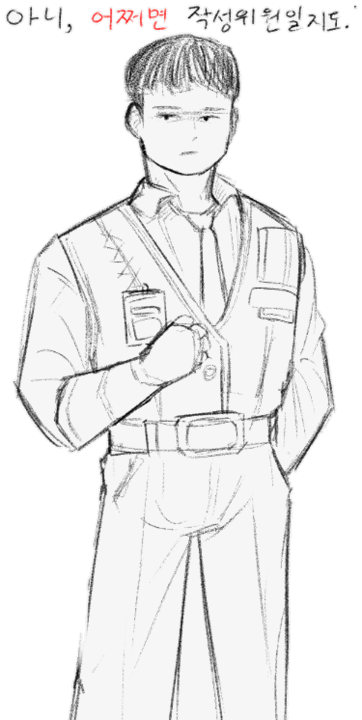
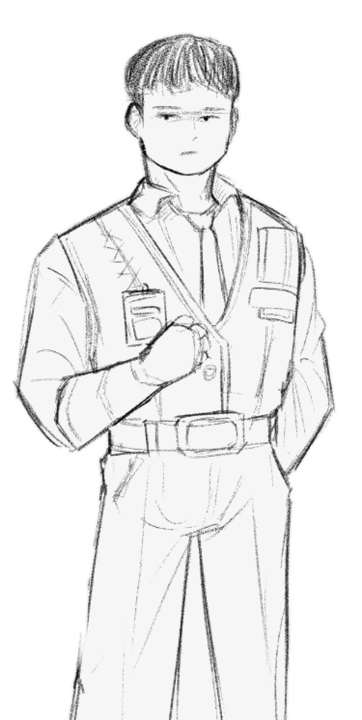
v2.2.2 — 스케치 초상 셋 속채움 · 그림 위 손글씨 지움

diff --git a/index.html b/index.html
@@ -1021,23 +1021,23 @@
 
 <div id="modal"><div class="sheet" id="sheet"></div></div>
 
-<script src="data/access.js?v=2.2.1"></script>
-<script src="data/vault.js?v=2.2.1"></script>
-<script src="data/characters.js?v=2.2.1"></script>
-<script src="data/skills.js?v=2.2.1"></script>
-<script src="data/allies.js?v=2.2.1"></script>
-<script src="data/gifts.js?v=2.2.1"></script>
-<script src="data/pickup.js?v=2.2.1"></script>
-<script src="data/achievements.js?v=2.2.1"></script>
-<script src="data/mail.js?v=2.2.1"></script>
-<script src="data/notice.js?v=2.2.1"></script>
-<script src="data/patch.js?v=2.2.1"></script>
-<script src="data/event.js?v=2.2.1"></script>
-<script src="data/tutorial.js?v=2.2.1"></script>
-<script src="data/foes.js?v=2.2.1"></script>
-<script src="data/story.js?v=2.2.1"></script>
-<script src="data/mirrorpacks.js?v=2.2.1"></script>
-<script src="engine.js?v=2.2.1"></script>
+<script src="data/access.js?v=2.2.2"></script>
+<script src="data/vault.js?v=2.2.2"></script>
+<script src="data/characters.js?v=2.2.2"></script>
+<script src="data/skills.js?v=2.2.2"></script>
+<script src="data/allies.js?v=2.2.2"></script>
+<script src="data/gifts.js?v=2.2.2"></script>
+<script src="data/pickup.js?v=2.2.2"></script>
+<script src="data/achievements.js?v=2.2.2"></script>
+<script src="data/mail.js?v=2.2.2"></script>
+<script src="data/notice.js?v=2.2.2"></script>
+<script src="data/patch.js?v=2.2.2"></script>
+<script src="data/event.js?v=2.2.2"></script>
+<script src="data/tutorial.js?v=2.2.2"></script>
+<script src="data/foes.js?v=2.2.2"></script>
+<script src="data/story.js?v=2.2.2"></script>
+<script src="data/mirrorpacks.js?v=2.2.2"></script>
+<script src="engine.js?v=2.2.2"></script>
 <script>
 /* 데이터 파일을 못 읽은 경우에 대비한 안내 */
 if (typeof CHAPTERS === "undefined" || typeof SINNERS === "undefined") {

diff --git a/data/patch.js b/data/patch.js
@@ -39,6 +39,13 @@
 
 const PATCH_NOTES = [
   {
+    ver: "2.2.2", name: "호감이 끝나는", date: "2026-09-12",
+    lines: [
+      "스케치 초상 <b style=\"color:#d8b26a\">세 장</b>의 속을 채웠습니다. 무대에 세웠을 때 옷 안쪽으로 배경이 비쳐 보이던 것을 고쳤습니다.",
+      "그림 위에 남아 있던 손글씨(이름표 등)를 지웠습니다 — 인물 · 적 그림 <b style=\"color:#d8b26a\">아홉 장</b>입니다."
+    ]
+  },
+  {
     ver: "2.2.1", name: "호감이 끝나는", date: "2026-09-12",
     lines: [
       "전투가 끝나면, 전투 중에 말하던 사람(연계 효과 · 연계 호령 · 설득전 대사)의 얼굴이 무대에서 내려갑니다. 예전에는 다음 장면이 그려질 때까지 남아 있었습니다.",

diff --git a/engine.js b/engine.js
@@ -11,7 +11,7 @@
  *    가운뎃자리  장이 늘거나 기능이 추가될 때
  *    뒷자리  대사·수치 손질
  */
-const VERSION = "2.2.1";
+const VERSION = "2.2.2";
 const VERSION_NAME = "호감이 끝나는";
 
 /* ── 규칙 상수 ─ 밸런스를 만지려면 여기 ────────────────────── */
